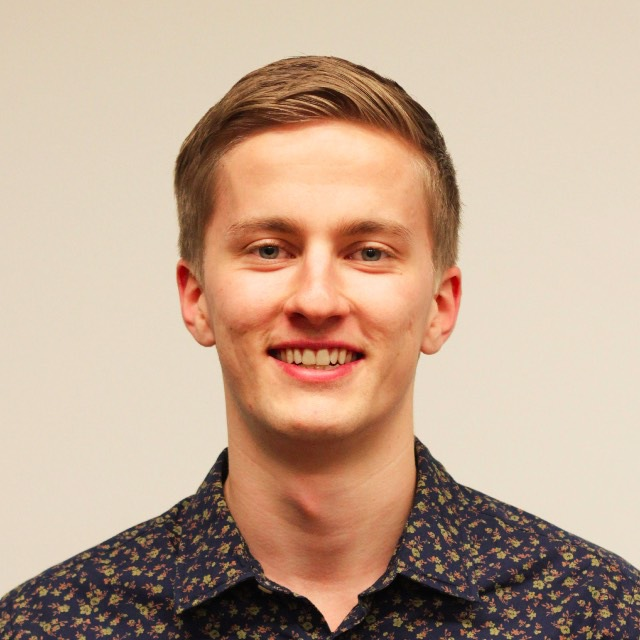
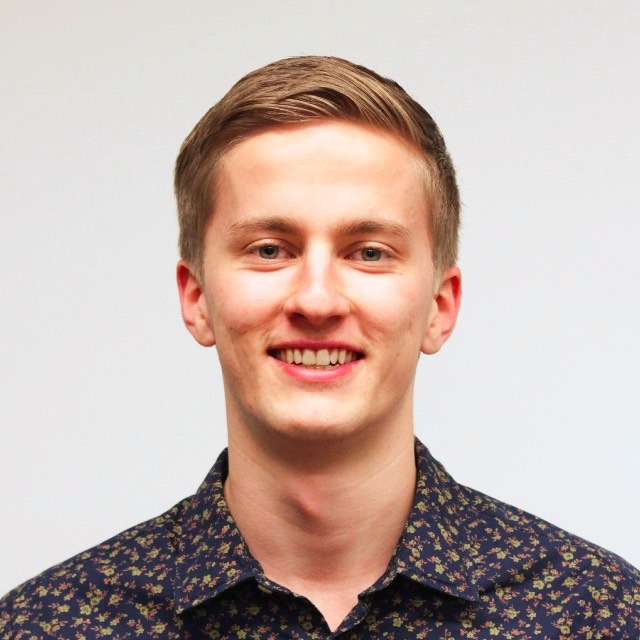
kuvia ja tekstiboxin leveys

diff --git a/yhteystiedot.html b/yhteystiedot.html
@@ -79,7 +79,7 @@
         <p>Historiikki<br><i>antti.nupponen@aalto.fi</i></p>
       </div>
       <div class="contact-col col-xs-6 col-sm-6 col-md-4 col-lg-4">
-        <img class="contact rounded-circle" src="static/tirret/ilona.jpg">
+        <img class="contact rounded-circle" src="static/tirret/ilona.png">
         <h4>Ilona Rahnasto</h4>
         <p>Projektitirehtööri<br><i>ilona.rahnasto@aalto.fi</i></p>
       </div>

diff --git a/styles.css b/styles.css
@@ -50,11 +50,11 @@ p {
 }
 
 .cont {
-  background-color: rgba(255, 255, 255, 0.5);
+  /*background-color: rgba(255, 255, 255, 0.5);*/
   padding: 2rem 5rem;
   margin: 3rem auto;
   border-radius: 5px;
-  width: 50%;
+  width: 60%;
   text-align: center;
 }
 
